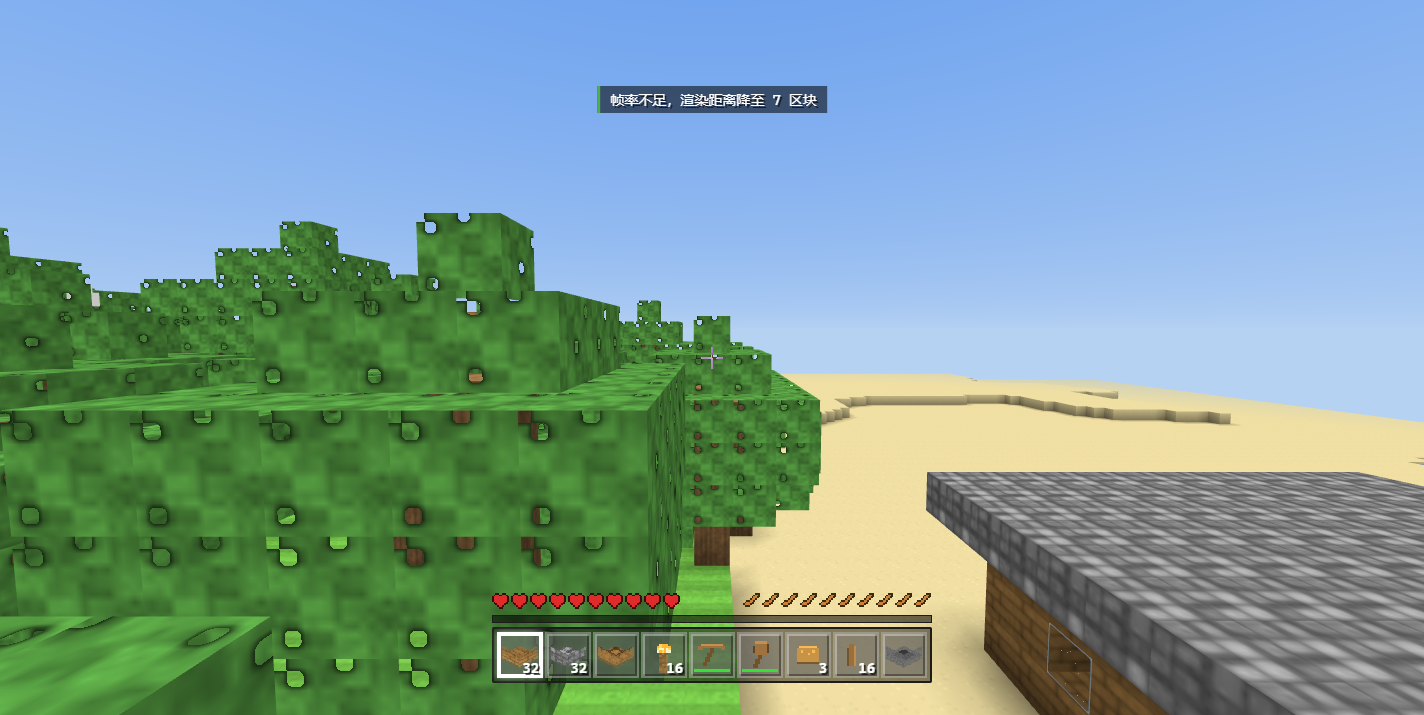
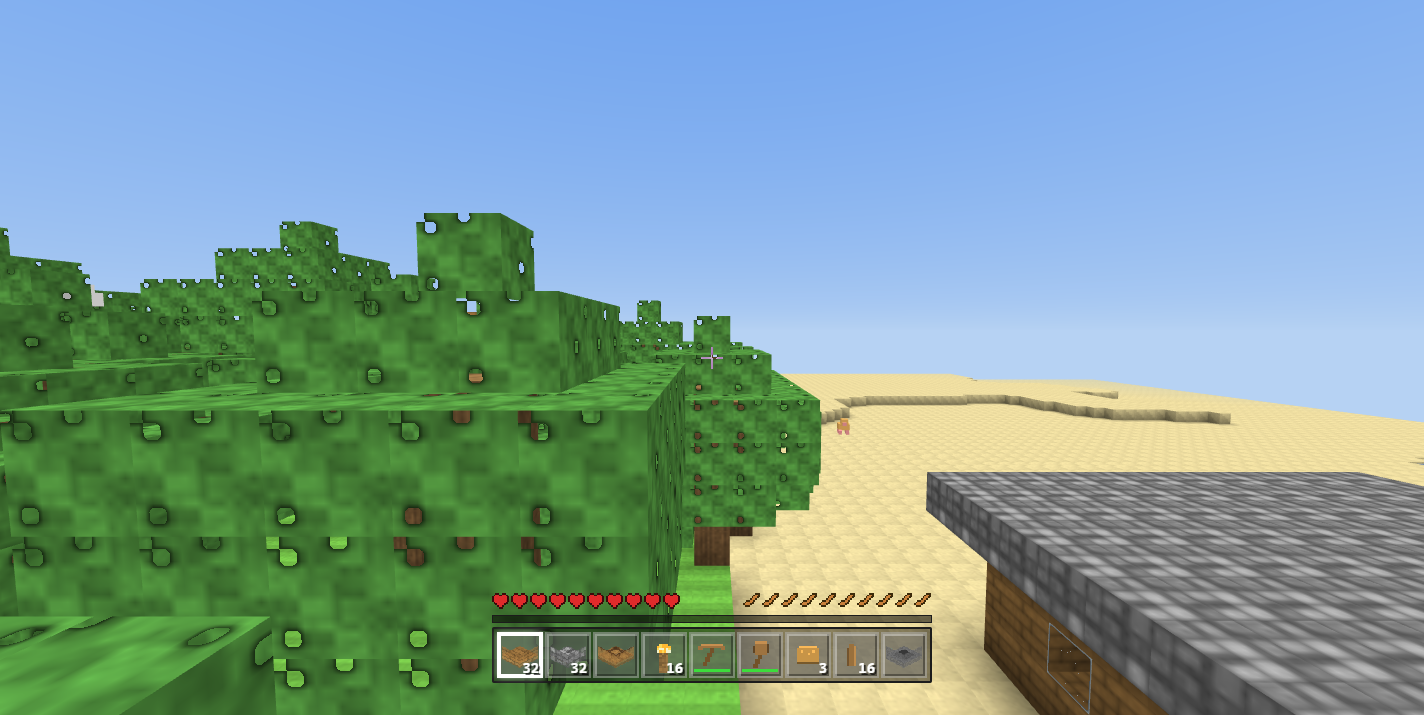
Add runtime texture packs (/pack) and structured textures for dirt, sand and stone
Texture packs
- The renderer now keeps the authored atlas pixels, so a pack can overwrite single
  tiles and the whole texture array can be re-uploaded without repainting.
- A pack is a partial override keyed by `block` or `block/face`
  (north, south, west, east, top, bottom):
    { "name": "Redstone", "tiles": { "stone": "stone.png", "grass/top": "g.png" } }
  Relative paths resolve against the manifest, so a pack can just be a folder of
  PNGs. Tiles it does not name keep the procedural art, and a broken image is
  ignored rather than blanking the block.
- /pack <url> loads a manifest, /pack off restores the built-in art.
- Images are drawn at 16px with smoothing off so pixel art stays crisp.

Textures
- T.SOLID (dirt, sand — the flattest painter) now uses 4x4 clumps plus grain and a
  few bright/dark specks instead of a flat fill with thirty random dots.
- T.NOISE (stone, gravel, clay) gained the same low-frequency clumps under its
  per-pixel noise, so rock reads as patches rather than uniform static.

verify: 103/103 (three new checks covering pack override, face isolation and reset).

Changed region(s): [[0.4017, 0.1231, 0.5871, 0.1846], [0.5871, 0.5846, 0.618, 0.6154]]

diff --git a/js/render/gl.js b/js/render/gl.js
@@ -2,7 +2,7 @@
 // box-model entities, block outlines and particles.
 import { m4perspective, m4view, m4multiply, m4identity, m4aim, m4rotY, m4rotX, m4rotZ, m4translate, m4scale, frustumFromMatrix, aabbInFrustum } from '../core/math.js';
 import { CX, CZ, WORLD_H } from '../world/chunk.js';
-import { ATLAS_W, ATLAS_H, TILE_PX, LAYER_COUNT, generateAtlasPixels, paintAllTiles } from '../core/atlas.js';
+import { ATLAS_W, ATLAS_H, TILE_PX, LAYER_COUNT, generateAtlasPixels, paintAllTiles, layersForTileKey } from '../core/atlas.js';
 import { VERT_BYTES } from '../world/mesher.js';
 
 // ------------------------------------------------------------------ shaders
@@ -350,6 +350,10 @@ export class Renderer {
       const i = index * layerBytes + (y * TILE_PX + x) * 4;
       pixels[i] = r; pixels[i + 1] = g; pixels[i + 2] = b; pixels[i + 3] = a;
     }, null);
+    // keep the authored pixels around so a texture pack can overwrite individual tiles
+    // and the whole array can be re-uploaded without repainting everything
+    this.atlasPixels = pixels;
+    this.atlasLayerBytes = layerBytes;
     const tex = gl.createTexture();
     gl.bindTexture(gl.TEXTURE_2D_ARRAY, tex);
     const levels = Math.floor(Math.log2(TILE_PX)) + 1;
@@ -467,6 +471,77 @@ export class Renderer {
       this.stats.uploads++;
       this.stats.bytesUploaded += part.data.byteLength;
     }
+  }
+
+  /**
+   * Swap in a texture pack at runtime.
+   *
+   * A pack is a partial override: it names only the tiles it replaces, everything else
+   * keeps the built-in procedural art. Keys are `block` (all faces) or `block/face` with
+   * face in north, south, west, east, top, bottom.
+   *
+   *   { "name": "Redstone", "tiles": { "stone": "url", "grass/top": "url" } }
+   *
+   * Images are drawn at TILE_PX with smoothing off so pixel art stays crisp, then the
+   * whole texture array is re-uploaded and mipmaps regenerated.
+   */
+  async applyTexturePack(manifest) {
+    const tiles = (manifest && manifest.tiles) || {};
+    const jobs = [];
+    for (const [key, src] of Object.entries(tiles)) {
+      const layers = layersForTileKey(key);
+      if (!layers.length || !src) continue;
+      jobs.push(this._loadTileImage(src).then((img) => {
+        for (const layer of layers) this._blitImageIntoTile(layer, img);
+      }).catch(() => { /* a broken tile just keeps the procedural art */ }));
+    }
+    await Promise.all(jobs);
+    this._reuploadAtlas();
+    this.texturePackName = (manifest && manifest.name) || 'custom';
+    return jobs.length;
+  }
+
+  /** Restore the built-in procedural atlas. */
+  resetTexturePack() {
+    const layerBytes = this.atlasLayerBytes;
+    this.atlasPixels.fill(0);
+    paintAllTiles((index, x, y, r, g, b, a) => {
+      const i = index * layerBytes + (y * TILE_PX + x) * 4;
+      this.atlasPixels[i] = r; this.atlasPixels[i + 1] = g;
+      this.atlasPixels[i + 2] = b; this.atlasPixels[i + 3] = a;
+    }, null);
+    this._reuploadAtlas();
+    this.texturePackName = 'default';
+  }
+
+  _loadTileImage(src) {
+    return new Promise((resolve, reject) => {
+      const img = new Image();
+      img.crossOrigin = 'anonymous';
+      img.onload = () => resolve(img);
+      img.onerror = () => reject(new Error('image failed: ' + src));
+      img.src = src;
+    });
+  }
+
+  _blitImageIntoTile(layer, img) {
+    const cv = document.createElement('canvas');
+    cv.width = TILE_PX; cv.height = TILE_PX;
+    const ctx = cv.getContext('2d');
+    ctx.imageSmoothingEnabled = false;
+    // a non-square source is stretched; packs are expected to be square
+    ctx.drawImage(img, 0, 0, TILE_PX, TILE_PX);
+    const data = ctx.getImageData(0, 0, TILE_PX, TILE_PX).data;
+    const base = layer * this.atlasLayerBytes;
+    this.atlasPixels.set(data, base);
+  }
+
+  _reuploadAtlas() {
+    const gl = this.gl;
+    gl.bindTexture(gl.TEXTURE_2D_ARRAY, this.atlasArray);
+    gl.texSubImage3D(gl.TEXTURE_2D_ARRAY, 0, 0, 0, 0, TILE_PX, TILE_PX, LAYER_COUNT,
+      gl.RGBA, gl.UNSIGNED_BYTE, this.atlasPixels);
+    gl.generateMipmap(gl.TEXTURE_2D_ARRAY);
   }
 
   freeChunk(chunk) {

diff --git a/js/core/atlas.js b/js/core/atlas.js
@@ -118,13 +118,25 @@ function paintTile(p, d, seed) {
 
   switch (K) {
     case T.SOLID: {
-      const c = rgba(base);
-      p.fill(c[0], c[1], c[2]);
-      // faint grain so flat colours still read as pixel art
-      for (let i = 0; i < 30; i++) {
-        const f = 0.94 + rng() * 0.12;
-        const c2 = rgba(shade(base, f));
-        p.px((rng() * 16) | 0, (rng() * 16) | 0, c2[0], c2[1], c2[2]);
+      // Dirt and sand live here, and this was the crudest painter: flat fill plus thirty
+      // random dots. Two octaves instead — 4x4 clumps for body, per-pixel jitter for
+      // grain, and a few dark specks so it does not read as a gradient.
+      const clump = new Float32Array(16 * 16);
+      for (let y = 0; y < 16; y++) {
+        for (let x = 0; x < 16; x++) {
+          const cx = Math.floor(x / 4), cy = Math.floor(y / 4);
+          clump[y * 16 + x] = 0.94 + (((cx * 13 + cy * 5 + seed) % 6) / 6) * 0.12;
+        }
+      }
+      for (let y = 0; y < 16; y++) {
+        for (let x = 0; x < 16; x++) {
+          const k = y * 16 + x;
+          let f = clump[k] * (0.97 + rng() * 0.06);
+          if (rng() < 0.06) f *= 0.90;         // sparse darker grit
+          else if (rng() < 0.05) f *= 1.06;    // and a few bright grains
+          const c = rgba(shade(base, f));
+          p.px(x, y, c[0], c[1], c[2]);
+        }
       }
       break;
     }
@@ -134,9 +146,18 @@ function paintTile(p, d, seed) {
     case T.SNOW:
     case T.BEDROCK: {
       const spread = K === T.GRAVEL ? 0.30 : K === T.BEDROCK ? 0.55 : 0.16;
+      // low-frequency clumps under the per-pixel noise: stone should have patches of
+      // lighter and darker rock, not uniform static
+      const clump = new Float32Array(16 * 16);
       for (let y = 0; y < 16; y++) {
         for (let x = 0; x < 16; x++) {
-          let f = 1 + (rng() - 0.5) * spread * 2;
+          const cx = Math.floor(x / 4), cy = Math.floor(y / 4);
+          clump[y * 16 + x] = 0.94 + (((cx * 17 + cy * 11 + seed) % 5) / 5) * 0.14;
+        }
+      }
+      for (let y = 0; y < 16; y++) {
+        for (let x = 0; x < 16; x++) {
+          let f = (1 + (rng() - 0.5) * spread * 2) * (K === T.BEDROCK ? 1 : clump[y * 16 + x]);
           if (K === T.BEDROCK) f = rng() < 0.5 ? 0.35 + rng() * 0.25 : 0.55 + rng() * 0.4;
           const c = rgba(shade(base, f));
           p.px(x, y, c[0], c[1], c[2]);
@@ -1397,4 +1418,36 @@ export function generateAtlasPixels() {
 export function tileUV(_tileIndex) {
   const inset = 0.5 / TILE_PX;
   return [inset, inset, 1 - inset * 2, 1 - inset * 2];
+}
+
+// ---------------------------------------------------------------- texture packs
+/** Face order matches the mesher's FACE_NORMAL: north(-Z), south(+Z), west(-X), east(+X), top, bottom. */
+export const FACE_NAMES = ['north', 'south', 'west', 'east', 'top', 'bottom'];
+
+/**
+ * Resolve a texture-pack key to texture-array layers.
+ *
+ *   "stone"        -> every face of that block
+ *   "stone/top"    -> just the top face
+ *   "stone/north"  -> just the -Z face
+ *
+ * Returns an array of layer indices (empty when the block or face is unknown), which is
+ * what a pack uses to overwrite individual tiles without having to provide all of them.
+ */
+export function layersForTileKey(key) {
+  if (typeof key !== 'string' || !key) return [];
+  const slash = key.indexOf('/');
+  const blockKey = slash === -1 ? key : key.slice(0, slash);
+  const faceName = slash === -1 ? null : key.slice(slash + 1).toLowerCase();
+  let id = -1;
+  for (let i = 1; i < BLOCKS.length; i++) if (BLOCKS[i] && BLOCKS[i].key === blockKey) { id = i; break; }
+  if (id < 0) return [];
+  if (faceName === null) {
+    const out = [];
+    for (let f = 0; f < ATLAS_SLOTS; f++) out.push(id * ATLAS_SLOTS + f);
+    return out;
+  }
+  const face = FACE_NAMES.indexOf(faceName);
+  if (face < 0) return [];
+  return [id * ATLAS_SLOTS + face];
 }

diff --git a/js/game/game.js b/js/game/game.js
@@ -1494,6 +1494,41 @@ export class Game {
     return result;
   }
 
+  // ------------------------------------------------------------------ texture packs
+  /**
+   * Load a texture pack manifest from a URL, or restore the built-in art.
+   *
+   * The manifest only names the tiles it replaces:
+   *   { "name": "Redstone", "tiles": { "stone": "tiles/stone.png",
+   *                                    "grass/top": "tiles/grass_top.png" } }
+   * Relative URLs resolve against the manifest, so a pack can be a folder of PNGs.
+   */
+  async loadTexturePack(url) {
+    if (!url || url === 'off' || url === 'default') {
+      this.renderer.resetTexturePack();
+      this.hud.toast('已恢复默认材质');
+      return true;
+    }
+    try {
+      const res = await fetch(url, { cache: 'no-store' });
+      if (!res.ok) throw new Error('HTTP ' + res.status);
+      const manifest = await res.json();
+      // resolve tile paths relative to the manifest so packs can use relative names
+      const base = new URL(url, location.href);
+      const tiles = manifest.tiles || {};
+      for (const [key, src] of Object.entries(tiles)) {
+        if (typeof src === 'string' && !/^(https?:|data:|blob:|\/)/.test(src)) {
+          tiles[key] = new URL(src, base).href;
+        }
+      }
+      const n = await this.renderer.applyTexturePack({ ...manifest, tiles });
+      this.hud.toast('材质包已加载：' + (manifest.name || url) + '（' + n + ' 张）');
+      return true;
+    } catch (e) {
+      this.hud.toast('材质包加载失败：' + e.message);
+      return false;
+    }
+  }
   /** The Mob class, for tooling that needs to spawn a test mob with an empty world. */
   mobClassForTests() { return Mob; }
 
@@ -2582,7 +2617,10 @@ export class Game {
     const w = this.world;
     switch (cmd) {
       case 'help':
-        this.hud.chatLine('/time set day|night · /tp x y z · /give block [n] · /gamemode creative|survival · /seed · /spawn · /kill · /weather clear|rain · /fps', '#ffff88');
+        this.hud.chatLine('/time set day|night · /tp x y z · /give block [n] · /gamemode creative|survival · /seed · /spawn · /kill · /weather clear|rain · /fps · /pack <url|off>', '#ffff88');
+        break;
+      case 'pack':
+        this.loadTexturePack(args[0]);
         break;
       case 'time': {
         if (args[0] === 'set' && args[1] === 'day') this.dayTime = 0.25;
